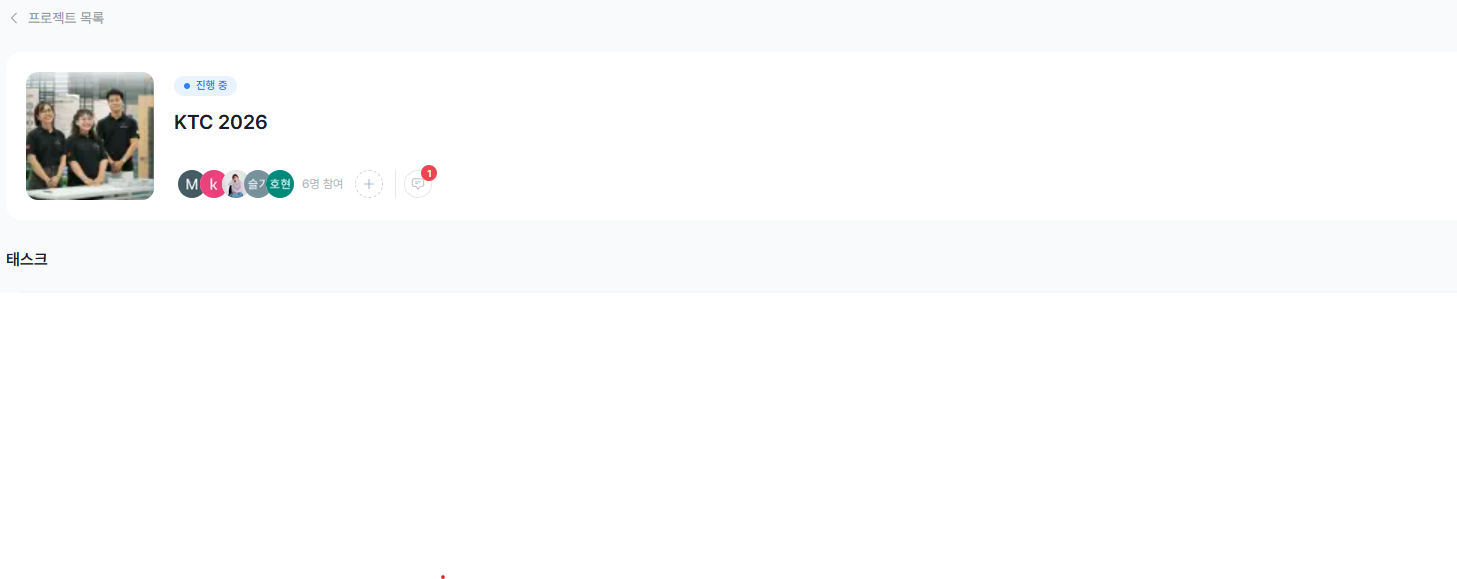
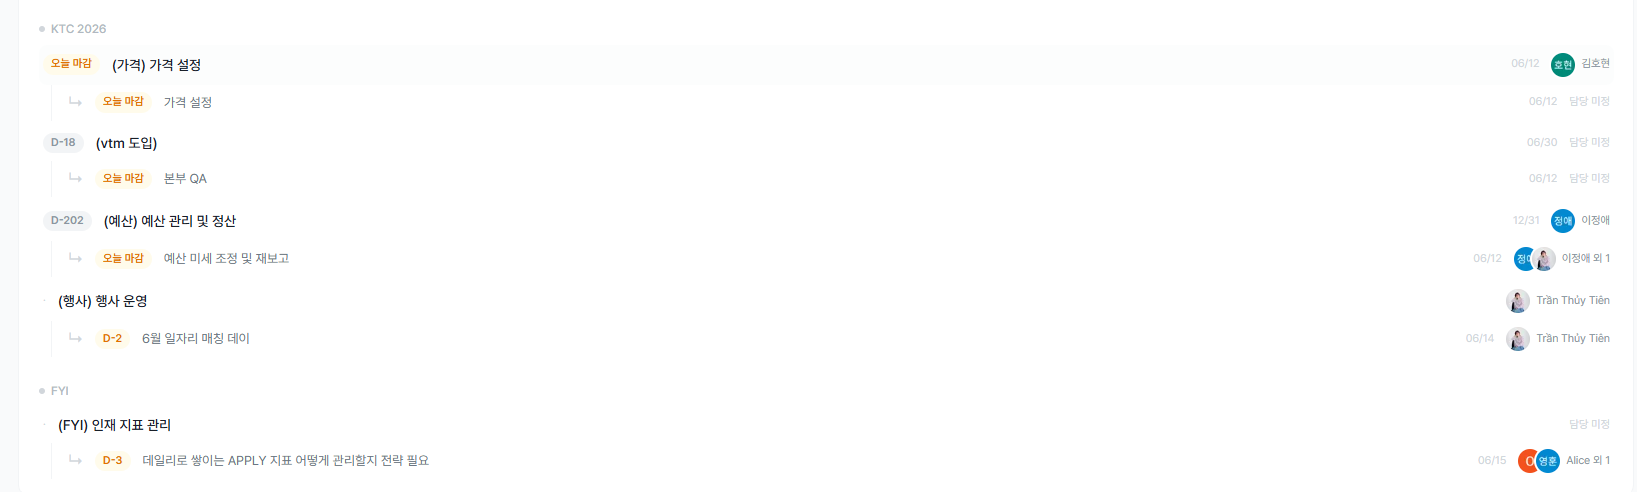
fix(dashboard): hide D-day badge on index main tasks (with subtasks) — only subtask deadlines matter

diff --git a/app/(dashboard)/dashboard/team-deadlines.tsx b/app/(dashboard)/dashboard/team-deadlines.tsx
@@ -22,6 +22,8 @@ export type DeadlineMain = {
   dueDate: string | null;
   days: number | null;
   bucket: Bucket | null;
+  // 서브를 가진 메인 = 분류(인덱스) 역할 → 마감 배지/날짜 숨김. 서브 없는 단독 메인만 일감으로 배지 표시.
+  isIndex: boolean;
   assignees: { name: string; avatarUrl: string | null }[];
   subtasks: DeadlineTask[];
 };
@@ -69,17 +71,17 @@ export default function TeamDeadlines({ groups }: { groups: DeadlineGroup[] }) {
   const [showAll, setShowAll] = useState(false);
 
   const urgentCount = groups.reduce(
-    (n, g) => n + g.mains.reduce((m, mt) => m + (isUrgent(mt.bucket) ? 1 : 0) + mt.subtasks.filter((s) => isUrgent(s.bucket)).length, 0),
+    (n, g) => n + g.mains.reduce((m, mt) => m + (!mt.isIndex && isUrgent(mt.bucket) ? 1 : 0) + mt.subtasks.filter((s) => isUrgent(s.bucket)).length, 0),
     0,
   );
 
-  // 토글에 따라 upcoming 숨김. 메인은 자신이 급하거나 표시할 서브가 있으면 노출
+  // 토글에 따라 upcoming 숨김. 인덱스 메인은 급한 서브가 있을 때만, 단독 메인은 자신이 급할 때 노출
   const shown = groups
     .map((g) => ({
       ...g,
       mains: g.mains
         .map((m) => ({ ...m, subtasks: showAll ? m.subtasks : m.subtasks.filter((s) => isUrgent(s.bucket)) }))
-        .filter((m) => showAll || isUrgent(m.bucket) || m.subtasks.length > 0),
+        .filter((m) => showAll || (!m.isIndex && isUrgent(m.bucket)) || m.subtasks.length > 0),
     }))
     .filter((g) => g.mains.length > 0);
 
@@ -107,11 +109,11 @@ export default function TeamDeadlines({ groups }: { groups: DeadlineGroup[] }) {
               <div className="flex flex-col gap-1">
                 {g.mains.map((m) => (
                   <div key={m.id} className="rounded-lg">
-                    {/* 메인 태스크 */}
+                    {/* 메인 태스크 — 서브를 가진 메인은 분류(인덱스)라 마감 배지/날짜 숨김 */}
                     <Link href={`/projects/${g.projectId}`} className="flex items-center gap-3 rounded-lg px-1 py-2 transition-colors hover:bg-gray-50/60">
-                      {m.bucket ? <Badge bucket={m.bucket} days={m.days as number} t={t} /> : <span className="shrink-0 text-[11px] text-gray-300">·</span>}
-                      <span className={`flex-1 truncate text-sm font-medium ${m.bucket === "overdue" ? "text-red-700" : "text-gray-900"}`}>{m.title}</span>
-                      {m.dueDate && <span className="shrink-0 text-[11px] text-gray-300">{dueLabel(m.dueDate)}</span>}
+                      {!m.isIndex && (m.bucket ? <Badge bucket={m.bucket} days={m.days as number} t={t} /> : <span className="shrink-0 text-[11px] text-gray-300">·</span>)}
+                      <span className={`flex-1 truncate text-sm font-medium ${m.isIndex ? "text-gray-500" : m.bucket === "overdue" ? "text-red-700" : "text-gray-900"}`}>{m.title}</span>
+                      {!m.isIndex && m.dueDate && <span className="shrink-0 text-[11px] text-gray-300">{dueLabel(m.dueDate)}</span>}
                       <Avatars assignees={m.assignees} t={t} />
                     </Link>
                     {/* 서브 태스크 (들여쓰기) */}

diff --git a/app/(dashboard)/dashboard/page.tsx b/app/(dashboard)/dashboard/page.tsx
@@ -127,6 +127,7 @@ export default async function DashboardPage() {
         dueDate: withDue ? r.due_date : null,
         days: info ? info.days : null,
         bucket: info ? info.bucket : null,
+        isIndex: false, // 서브 부착 후 결정
         assignees: assigneeMap[r.id] || [],
         subtasks: [],
       };
@@ -143,6 +144,9 @@ export default async function DashboardPage() {
       if (parent) parent.subtasks.push(sub);
       else mainMap.set(tk.id, makeMain(tk, true));
     }
+
+    // 서브를 가진 메인은 분류(인덱스) 역할 → 마감 배지 숨김 처리용 플래그
+    for (const m of mainMap.values()) m.isIndex = m.subtasks.length > 0;
 
     const sortKey = (m?: DeadlineMain) => (m ? Math.min(m.days ?? 9999, ...m.subtasks.map((s) => s.days), 9999) : 9999);
     const byProj: Record<string, DeadlineMain[]> = {};
